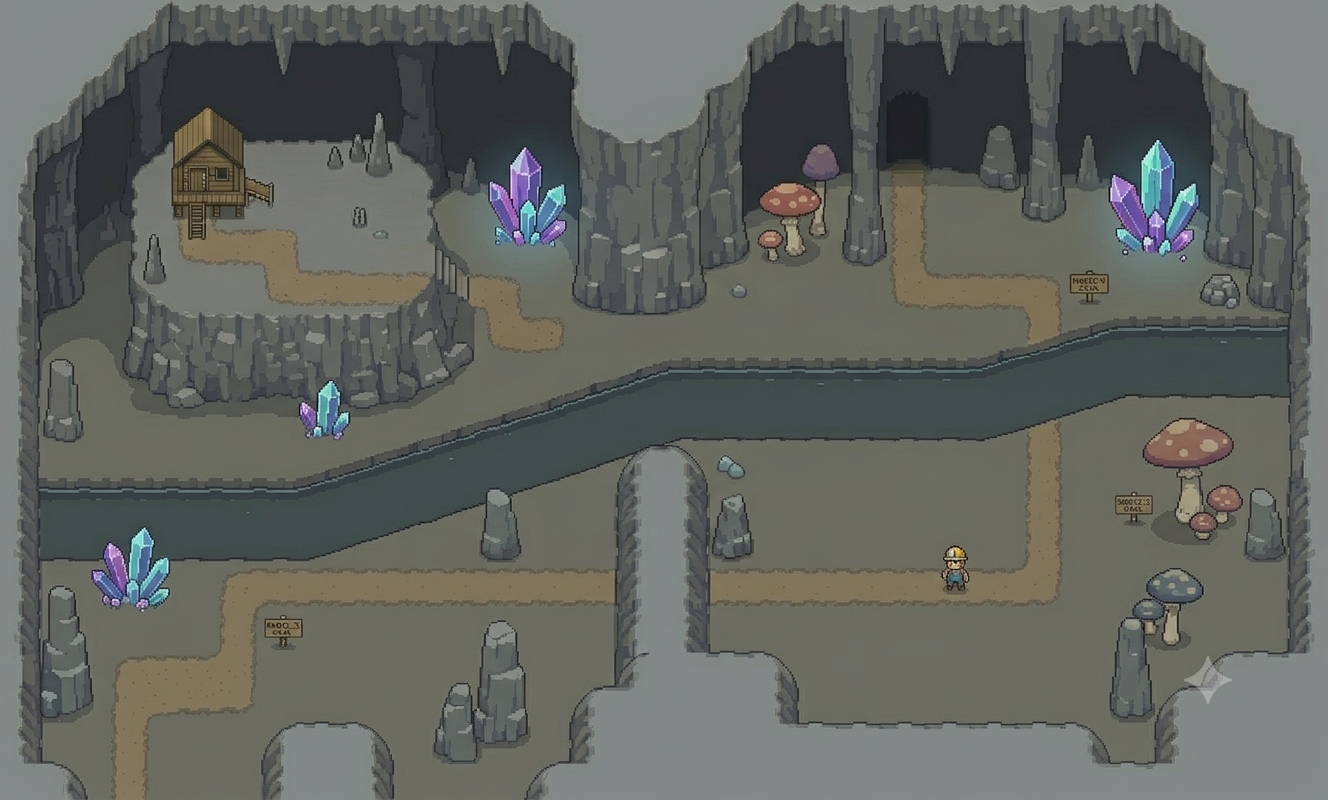
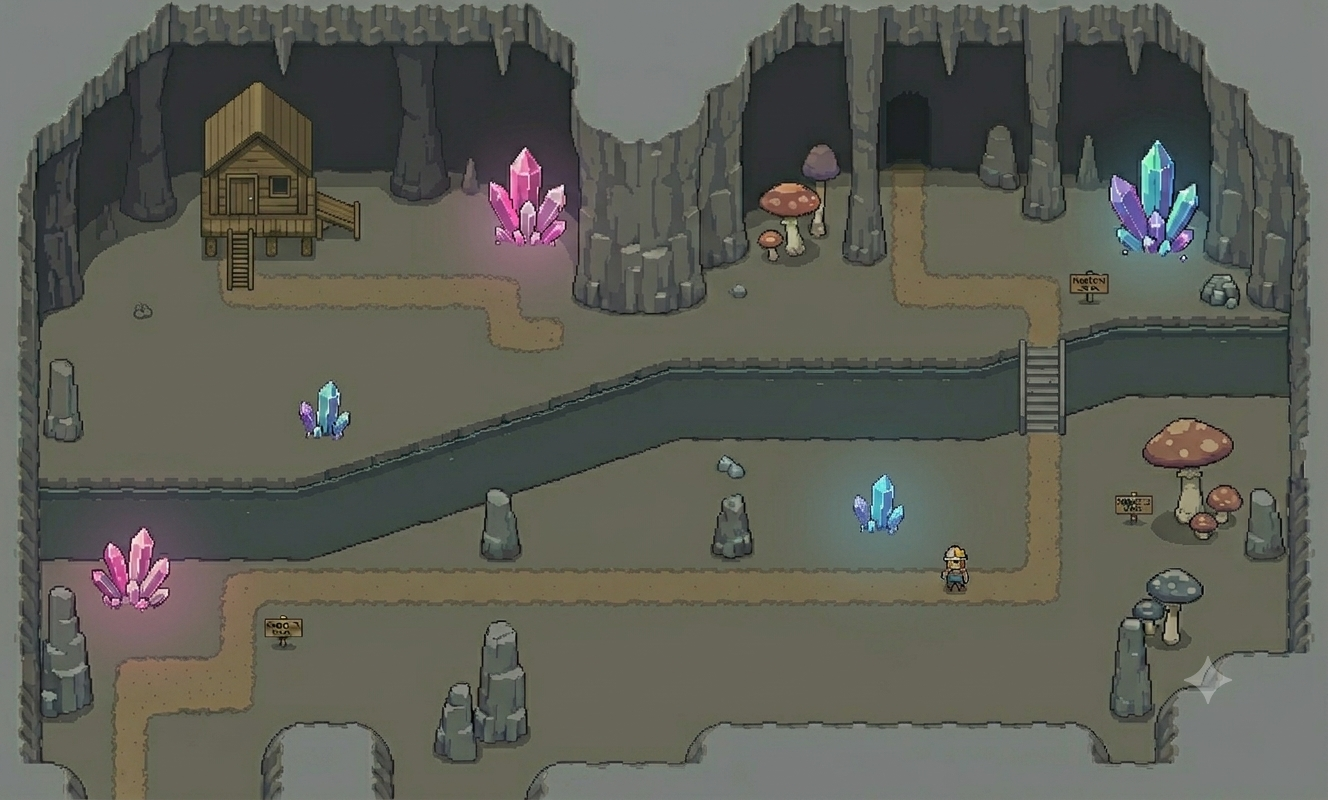
changed cave map png

diff --git a/openworld.js b/openworld.js
@@ -298,6 +298,8 @@ function animateDown(){
             ctx.drawImage(teleNoti, 0, 0, 1500, 800);
         } else if (map2 == 1){
             ctx.drawImage(teleNoti, 100, -300, 1500, 800);
+        }else if(map3 ==1){
+            ctx.drawImage(teleNoti, 100, -300, 1500, 800);
         }
 
     }
@@ -347,6 +349,8 @@ function animateUp(){
         if(map1 == 1){
             ctx.drawImage(teleNoti, 0, 0, 1500, 800);
         } else if (map2 == 1){
+            ctx.drawImage(teleNoti, 100, -300, 1500, 800);
+        }else if(map3 ==1){
             ctx.drawImage(teleNoti, 100, -300, 1500, 800);
         }
 
@@ -399,6 +403,8 @@ function animateRight(){
             ctx.drawImage(teleNoti, 0, 0, 1500, 800);
         } else if (map2 == 1){
             ctx.drawImage(teleNoti, 100, -300, 1500, 800);
+        }else if(map3 ==1){
+            ctx.drawImage(teleNoti, 100, -300, 1500, 800);
         }
 
     }
@@ -447,6 +453,8 @@ function animateLeft(){
         if(map1 == 1){
             ctx.drawImage(teleNoti, 0, 0, 1500, 800);
         } else if (map2 == 1){
+            ctx.drawImage(teleNoti, 100, -300, 1500, 800);
+        }else if(map3 ==1){
             ctx.drawImage(teleNoti, 100, -300, 1500, 800);
         }
 